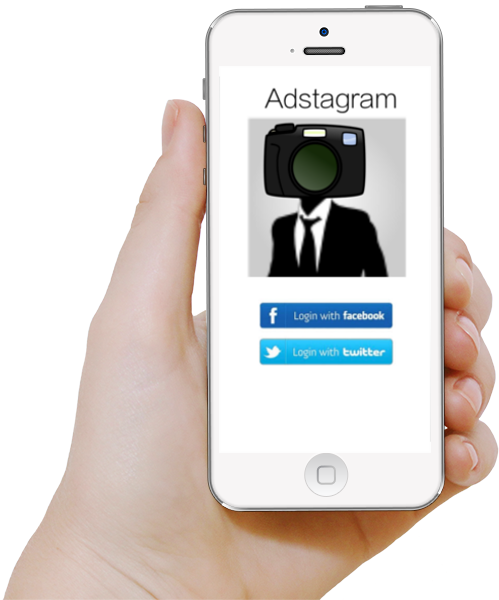
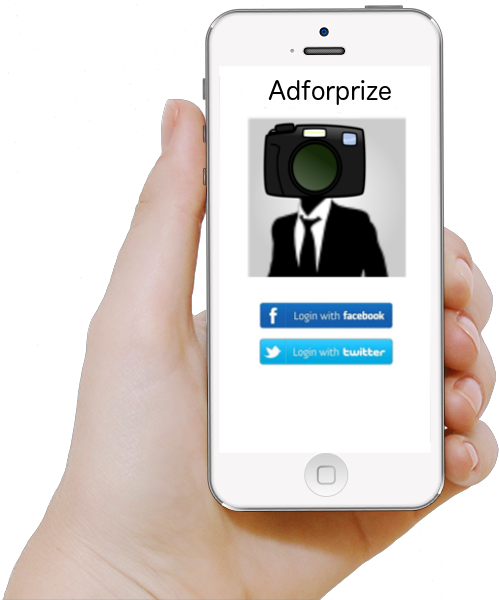
99designs static site

Changed region(s): [[0.511, 0.12, 0.8116, 0.21], [0.992, 0.72, 1.0, 0.78], [0.992, 0.6, 1.0, 0.63]]

diff --git a/index.html b/index.html
@@ -8,7 +8,7 @@
 
 <head>
     <meta charset="UTF-8">
-    <title>Adstagram -- Make Ads, Win Prizes</title>
+    <title>Make Ads, Win Prizes!</title>
     <meta name="viewport" content="width=device-width, initial-scale=1.0, maximum-scale=1.0, user-scalable=no">
     <meta http-equiv="X-UA-Compatible" content="IE=edge,chrome=1" />
     <link rel="shortcut icon" href="favicon.png">
@@ -46,7 +46,7 @@
 <body>
     <div class="pre-loader">
         <div class="load-con">
-            <img src="assets/img/freeze/logo_with_text.png" class="animated fadeInDown" alt="">
+            <img src="assets/img/freeze/logo.png" class="animated fadeInDown" alt="">
             <div class="spinner">
               <div class="bounce1"></div>
               <div class="bounce2"></div>
@@ -54,11 +54,13 @@
             </div>
         </div>
     </div>
+
      <div class="swiper-container">
+
           <div class="swiper-wrapper">
-            <div class="swiper-slide">Slide 1</div>
-            <div class="swiper-slide">Slide 2</div>
-            <div class="swiper-slide">Slide 3</div>
+            <div class="swiper-slide">
+                <iframe width="560" height="315" src="https://www.youtube.com/embed/AKXlepSUs5U" frameborder="0" allowfullscreen></iframe>
+            </div>
           </div>
           <!-- Add Pagination -->
           <div class="swiper-pagination"></div>
@@ -77,7 +79,7 @@
                             <span class="fa fa-bars fa-lg"></span>
                         </button>
                         <a class="navbar-brand" href="index.html">
-                            <img src="assets/img/freeze/logo_with_text.png" alt="" class="logo">
+                            <img src="assets/img/freeze/logo.png" alt="" class="logo">
                         </a>
                     </div>
 
@@ -88,6 +90,11 @@
                             <li><a href="#screens">screens</a>
                             </li>
                             <li><a class="getApp" href="#getApp">get app</a>
+                            </li>
+                            <li><a class="job" href="https://angel.co/adforprize/jobs/193278-ios-engineer">Hiring!</a>
+                            </li>
+                            </li>
+                            <li><a class="policy" href="#policy">Privacy Policy</a>
                             </li>
                         </ul>
                     </div>
@@ -111,7 +118,7 @@
                 <div class="section-heading scrollpoint sp-effect3">
                     <h1>Screens</h1>
                     <div class="divider"></div>
-                    <p>See what’s included in the App</p>
+                    <p>Make Ads, Win Prizes!</p>
                 </div>
 
                 <div class="filter scrollpoint sp-effect3">
@@ -134,23 +141,23 @@
                     </div>
                     <div class="two">
                         <img src="assets/img/freeze/screens/prizes_1.png" alt="">
-                        <h4>Companies Post Deals</h4>
+                        <h4>Companies Post Prizes</h4>
                     </div>
                     <div class="two">
                         <img src="assets/img/freeze/screens/prizes_2.png" alt="">
-                        <h4>Best Ad Creation Wins</h4>
+                        <h4>Make An Ad To Compete for a Prize</h4>
                     </div>
                     <div class="three">
                         <img src="assets/img/freeze/screens/share_1.png" alt="">
-                        <h4>Share With Your Friends</h4>
+                        <h4>Win real prizes!</h4>
                     </div>
                     <div class="three">
                         <img src="assets/img/freeze/screens/share_2.png" alt="">
-                        <h4>Hang Out On Adstagram</h4>
+                        <h4>Make ads for anything!</h4>
                     </div>
                     <div class="three">
                         <img src="assets/img/freeze/screens/taylor_swift.png" alt="">
-                        <h4>Follow Your Favorite Celebrities</h4>
+                        <h4>Create weird image mashups too!</h4>
                     </div>
                 </div>
             </div>
@@ -170,9 +177,9 @@
                         </div>
                         <div class="platforms">
 
-                                <a href="#" class="btn btn-primary inverse scrollpoint sp-effect2">
+                                <a href="https://itunes.apple.com/us/app/id1155694655" class="btn btn-primary inverse scrollpoint sp-effect2">
                                     <i class="fa fa-apple fa-3x pull-left"></i>
-                                    <span>Coming soon for</span><br>
+                                    <span>Download for</span><br>
                                     <b>Apple IOS</b>
                                 </a>
                         </div>
@@ -185,6 +192,106 @@
             </div>
         </section>
 
+        <section id="policy">
+            <p>
+           Privacy Policy of www.adforprize.com and the Adforprize mobile app
+This Application collects some Personal Data from its Users.
+Data Controller and Owner
+Types of Data collected
+The owner does not provide a list of Personal Data types collected.
+Other Personal Data collected may be described in other sections of this privacy policy or by dedicated explanation text contextually with the Data collection.
+The Personal Data may be freely provided by the User, or collected automatically when using this Application.
+Any use of Cookies - or of other tracking tools - by this Application or by the owners of third party services used by this Application, unless stated otherwise, serves to identify Users and remember their preferences, for the sole purpose of providing the service required by the User.
+Failure to provide certain Personal Data may make it impossible for this Application to provide its services.
+Users are responsible for any Personal Data of third parties obtained, published or shared through this Application and confirm that they have the third party's consent to provide the Data to the Owner.
+Mode and place of processing the Data
+Methods of processing
+The Data Controller processes the Data of Users in a proper manner and shall take appropriate security measures to prevent unauthorized access, disclosure, modification, or unauthorized destruction of the Data.
+The Data processing is carried out using computers and/or IT enabled tools, following organizational procedures and modes strictly related to the purposes indicated. In addition to the Data Controller, in some cases, the Data may be accessible to certain types of persons in charge, involved with the operation of the site (administration, sales, marketing, legal, system administration) or external parties (such as third party technical service providers, mail carriers, hosting providers, IT companies, communications agencies) appointed, if necessary, as Data Processors by the Owner. The updated list of these parties may be requested from the Data Controller at any time.
+Place
+The Data is processed at the Data Controller's operating offices and in any other places where the parties involved with the processing are located. For further information, please contact the Data Controller.
+Retention time
+The Data is kept for the time necessary to provide the service requested by the User, or stated by the purposes outlined in this document, and the User can always request that the Data Controller suspend or remove the data.
+The use of the collected Data
+The Data concerning the User is collected to allow the Owner to provide its services, as well as for the following purposes: Access to third party accounts.
+The Personal Data used for each purpose is outlined in the specific sections of this document.
+Facebook permissions asked by this Application
+This Application may ask for some Facebook permissions allowing it to perform actions with the User's Facebook account and to retrieve information, including Personal Data, from it.
+For more information about the following permissions, refer to the Facebook permissions documentation and to the Facebook privacy policy.
+The permissions asked are the following:
+Basic information
+By default, this includes certain User’s Data such as id, name, picture, gender, and their locale. Certain connections of the User, such as the Friends, are also available. If the User has made more of their Data public, more information will be available.
+Photos
+Provides access to the photos the User has uploaded, and photos the User has been tagged in.
+Publish App Activity
+Allows the app to publish to the Open Graph using Built-in Actions, Achievements, Scores, or Custom Actions. The app can also publish other activity which is detailed in the Facebook's Publishing Permissions document.
+Publish to the Wall
+Enables the app to post content, comments, and likes to a User's stream and to the streams of the User's friends.
+Upload Photos
+Add or modify user's photos.
+Detailed information on the processing of Personal Data
+Personal Data is collected for the following purposes and using the following services:
+Access to third party accounts
+
+This type of service allows this Application to access Data from your account on a third party service and perform actions with it.
+These services are not activated automatically, but require explicit authorization by the User.
+Facebook account access (This Application)
+This service allows this Application to connect with the User's account on the Facebook social network, provided by Facebook, Inc.
+Permissions asked: Photos, Publish App Activity, Publish to the Wall and Upload Photos.
+Place of processing: US – Privacy Policy
+Additional information about Data collection and processing
+Legal action
+The User's Personal Data may be used for legal purposes by the Data Controller, in Court or in the stages leading to possible legal action arising from improper use of this Application or the related services.
+The User declares to be aware that the Data Controller may be required to reveal personal data upon request of public authorities.
+Additional information about User's Personal Data
+In addition to the information contained in this privacy policy, this Application may provide the User with additional and contextual information concerning particular services or the collection and processing of Personal Data upon request.
+System logs and maintenance
+For operation and maintenance purposes, this Application and any third party services may collect files that record interaction with this Application (System logs) or use for this purpose other Personal Data (such as IP Address).
+Information not contained in this policy
+More details concerning the collection or processing of Personal Data may be requested from the Data Controller at any time. Please see the contact information at the beginning of this document.
+The rights of Users
+Users have the right, at any time, to know whether their Personal Data has been stored and can consult the Data Controller to learn about their contents and origin, to verify their accuracy or to ask for them to be supplemented, cancelled, updated or corrected, or for their transformation into anonymous format or to block any data held in violation of the law, as well as to oppose their treatment for any and all legitimate reasons. Requests should be sent to the Data Controller at the contact information set out above.
+This Application does not support “Do Not Track” requests.
+To determine whether any of the third party services it uses honor the “Do Not Track” requests, please read their privacy policies.
+Changes to this privacy policy
+The Data Controller reserves the right to make changes to this privacy policy at any time by giving notice to its Users on this page. It is strongly recommended to check this page often, referring to the date of the last modification listed at the bottom. If a User objects to any of the changes to the Policy, the User must cease using this Application and can request that the Data Controller remove the Personal Data. Unless stated otherwise, the then-current privacy policy applies to all Personal Data the Data Controller has about Users.
+Information about this privacy policy
+The Data Controller is responsible for this privacy policy, prepared starting from the modules provided by Iubenda and hosted on Iubenda's servers.
+Definitions and legal references
+
+Personal Data (or Data)
+Any information regarding a natural person, a legal person, an institution or an association, which is, or can be, identified, even indirectly, by reference to any other information, including a personal identification number.
+Usage Data
+Information collected automatically from this Application (or third party services employed in this Application), which can include: the IP addresses or domain names of the computers utilized by the Users who use this Application, the URI addresses (Uniform Resource Identifier), the time of the request, the method utilized to submit the request to the server, the size of the file received in response, the numerical code indicating the status of the server's answer (successful outcome, error, etc.), the country of origin, the features of the browser and the operating system utilized by the User, the various time details per visit (e.g., the time spent on each page within the Application) and the details about the path followed within the Application with special reference to the sequence of pages visited, and other parameters about the device operating system and/or the User's IT environment.
+User
+The individual using this Application, which must coincide with or be authorized by the Data Subject, to whom the Personal Data refers.
+Data Subject
+The legal or natural person to whom the Personal Data refers.
+Data Processor (or Data Supervisor)
+The natural person, legal person, public administration or any other body, association or organization authorized by the Data Controller to process the Personal Data in compliance with this privacy policy.
+Data Controller (or Owner)
+The natural person, legal person, public administration or any other body, association or organization with the right, also jointly with another Data Controller, to make decisions regarding the purposes, and the methods of processing of Personal Data and the means used, including the security measures concerning the operation and use of this Application. The Data Controller, unless otherwise specified, is the Owner of this Application.
+This Application
+The hardware or software tool by which the Personal Data of the User is collected.
+Legal information
+Notice to European Users: this privacy statement has been prepared in fulfillment of the obligations under Art. 10 of EC Directive n. 95/46/EC, and under the provisions of Directive 2002/58/EC, as revised by Directive 2009/136/EC, on the subject of Cookies.
+This privacy policy relates solely to this Application. 
+
+
+
+Adforprize includes contests. These contests are not affiliated with or sponsored by Apple.
+
+Official rules of Adforprize contests:
+1. submit an entry through the "Prizes" page
+2. your entry is automatically entered into the contest to win the Prize associated with your entry
+3. if you win a Prize for your entry, you will be contacted by the Adforprize team!
+
+Note: there is no cost to entering an Adforprize contest. There is also no guarantee of being rewarded. Images made with Adforprize may be reused or shared on the platform in any way by other users.
+
+Adforprize is not responsible for any negative messaging created by individuals on the platform. 
+        </p>
+        </section>
+
         <footer>
             <div class="container">
                 <a href="#" class="scrollpoint sp-effect3">
@@ -192,7 +299,8 @@
                 </a>
                 <div class="rights">
                     <p>Copyright &copy; 2016</p>
-                    <p>SED Technologies, LLC</p>
+                    <p>Adforprize, LLC</p>
+                    <p>Contact jeff@adforprize.com for more information</p>
                 </div>
             </div>
         </footer>
